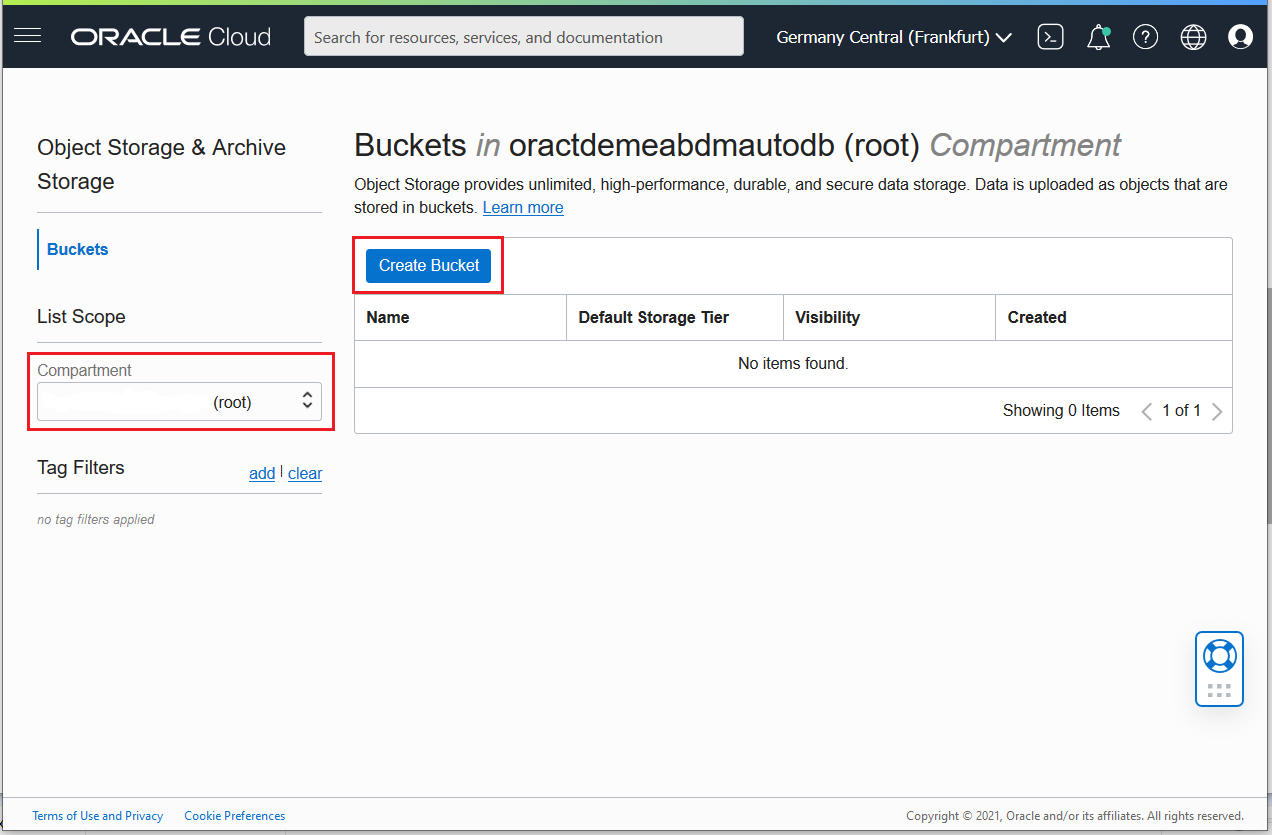
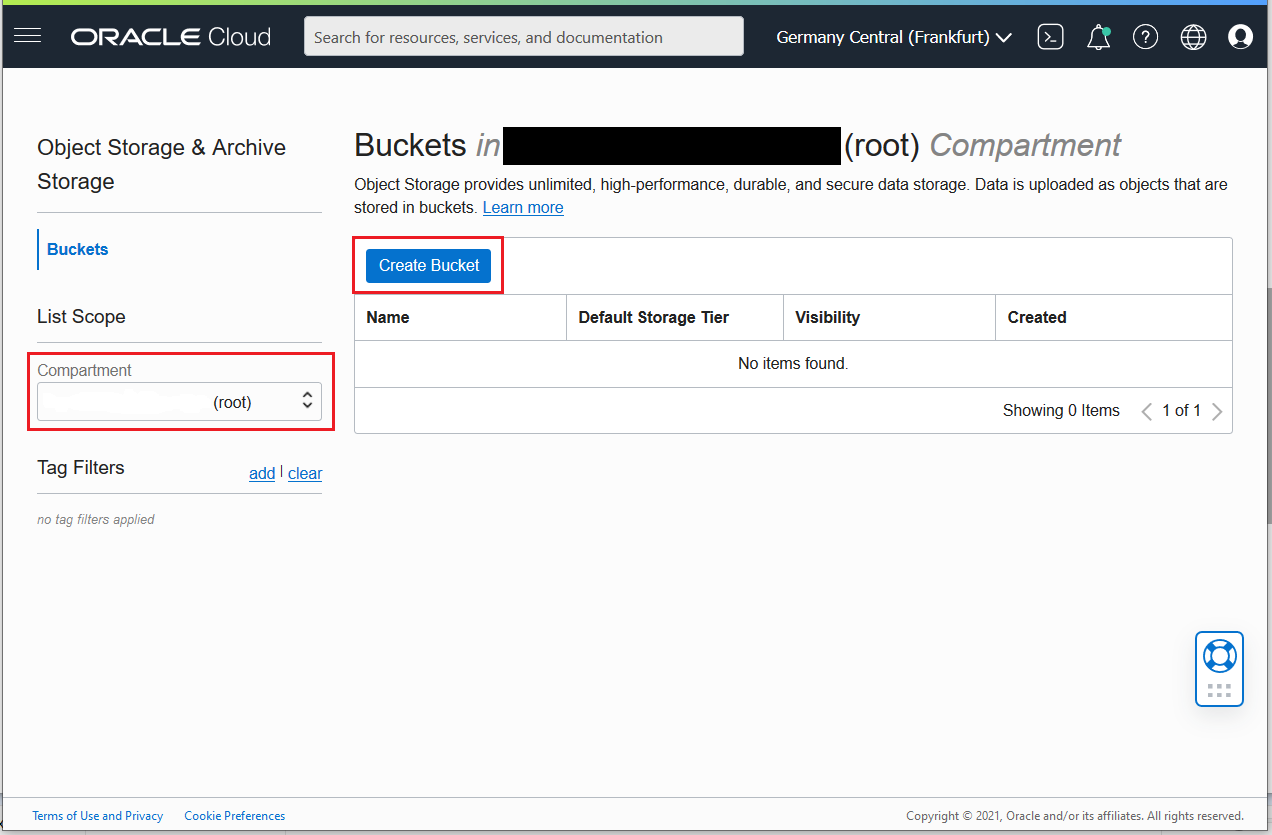
redacting my details, making more consistent DB name.

Changed region(s): [[0.3679, 0.1246, 0.6745, 0.218]]

diff --git a/provisioning/provisioning.md b/provisioning/provisioning.md
@@ -1,4 +1,4 @@
-# Provision of Autonomous Database
+# Provisioning an Autonomous Database
 
 ![ADB Banner](images/adb_banner.png)
 
@@ -44,11 +44,10 @@ To complete this lab, you need to have the following:
 
 ## **STEP 1**: Provision ATP
 
-1. Go to **Menu** > **Oracle Database** > **Autonomous Transation Processing**.
+1. Go to **Menu** > **Oracle Database** > **Autonomous Transaction Processing**.
 
    ![ATP Menu](images/menu_atp_1.png)
 
-   
 2. Click **Create Autonomous Database**.
 
    ![ATP Create Button](images/atps.png)
@@ -67,7 +66,6 @@ To complete this lab, you need to have the following:
 
    ![ATP Form 1](images/atp_creation_1_2_New.png)
 
-   
 4. Fill the next part of the provisioning form with the following values.
 
    - Always Free: Turn it `on`, but it will work if you leave it `off` like in the screenshot.
@@ -82,11 +80,11 @@ To complete this lab, you need to have the following:
    - Auto Scaling: `on` or default value.
 
    Auto scaling you can leave it off but it is a nice feature as the ATP database will scale if the workload is increasing and scale down automatically if the workload reduces. Zero downtime during the process. It's cool, isn't it?
-      
+   
    - Password: `Oracle_12345`
    - Confirm password: `Oracle_12345`
    
-   > Reminder: Note your password in a safe location as this cannot be reset.
+   > Reminder: Note your password in a safe location as the reset process is not documented as part of this lab.
    
    ![ATP Form 2](images/atp_creation_2_New.png)
 

diff --git a/upload-data/upload-data.md b/upload-data/upload-data.md
@@ -52,7 +52,7 @@ To complete this lab, you need to have the following:
 
 5. Your Object Storage bucket is ready to use.
 
-## STEP 2: Populate your Object Storage Bucket
+## **STEP 2:** Populate your Object Storage Bucket
 
 1. Download and save the following files to your local computer. 
    [export_spatial22Sep2020.dmp](files/export_spatial22Sep202.dmp) 
@@ -86,7 +86,7 @@ To complete this lab, you need to have the following:
 
 ![bucket contents](images/upload-bucket-06.png)
 
-## STEP 3: Generate an Auth Token
+## **STEP 3**: Generate an Auth Token
 
 To access data in  Object Storage you must enable your database user to authenticate itself with the Object Storage using your username and an authentication token. 
 
@@ -107,7 +107,7 @@ In this lab you will generate the token as your Oracle Cloud user, and it will i
 
 
 
-## STEP 4: Prepare the DBMS_CLOUD.CREATE_CREDENTIAL statement
+## STEP 4: Prepare the Create Credential SQL 
 
 During this lab you will create a private CREDENTIAL object for your schema. The DBMS_CLOUD package is used to create the credential in Autonomous Shared Database, and store  This encrypted connection information is only usable by your user schema, and remains stored in the database for future use (until the AUTH token is destroyed by the cloud user). 
 
